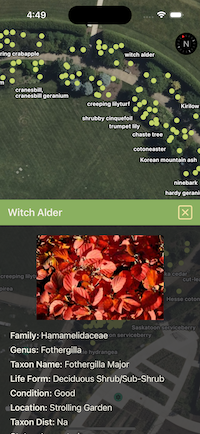
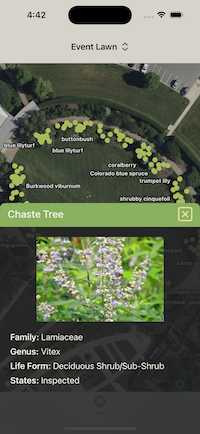
adds location selector to help with map performance

diff --git a/PSUArboretum/Reducers/MapReducer.swift b/PSUArboretum/Reducers/MapReducer.swift
@@ -17,26 +17,29 @@ struct MapReducer {
     let environment = Environment()
     
     struct State: Equatable {
-        var features: [ArboretumFeature] = []
-        
         var loading: Bool = false
+        
+        var allMapFeatures: [ArboretumFeature] = []
+        var displayedMapFeatures: [ArboretumFeature] = []
+        
+        @PresentationState var locationSelectorState: LocationSelectorReducer.State?
+        var featureLocations: [String] = []
+        var selectedLocation: String?
         
         @PresentationState var featureDetailState: FeatureDetailReducer.State?
         var selectedFeatureId: Int? = nil
         var selectedFeature: ArboretumFeature? = nil
-        
-        static func == (lhs: MapReducer.State, rhs: MapReducer.State) -> Bool {
-            return lhs.features == rhs.features &&
-            lhs.selectedFeature == rhs.selectedFeature
-        }
     }
     
     enum Action: Equatable {
         case didAppear
         case localDataBeganLoad
         case localDataLoaded([ArboretumFeature])
+        case locationSelected(String?)
         case featureSelected(Int?)
         case deselectFeature
+        case locationTapped
+        case locationSelector(PresentationAction<LocationSelectorReducer.Action>)
         case featureDetail(PresentationAction<FeatureDetailReducer.Action>)
     }
     
@@ -51,16 +54,44 @@ struct MapReducer {
     var body: some ReducerOf<Self> {
         Reduce { state, action in
             switch action {
+                case .locationSelected(let newLocation):
+                    state.selectedLocation = newLocation
+                    state.displayedMapFeatures = state.allMapFeatures.filter { $0.location == newLocation }
+                    return .none
+                case .locationTapped:
+                    if let loc = state.selectedLocation {
+                        state.locationSelectorState = LocationSelectorReducer.State(
+                            selectedLocation: loc,
+                            allLocations: state.featureLocations
+                        )
+                    }
+                    return .none
+                case .locationSelector(let lAction):
+                    switch lAction {
+                        case .presented(let action):
+                            switch action {
+                                case .locationSelected(let location):
+                                    if let location {
+                                        state.locationSelectorState = nil
+                                        return .send(.locationSelected(location))
+                                    }
+                                case .close:
+                                    state.locationSelectorState = nil
+                            }
+                            return .none
+                        default:
+                            return .none
+                    }
                 case .featureDetail(let pAction):
                     switch pAction {
                         case .presented(let action):
                             if action == FeatureDetailReducer.Action.close {
                                 state.featureDetailState = nil
                             }
+                            return .none
                         default:
                             return .none
                     }
-                    return .none
                 case .didAppear:
                     return environment.realm
                         .fetch(
@@ -73,15 +104,17 @@ struct MapReducer {
                     state.loading = true
                     return .none
                 case .localDataLoaded(let domainModels):
-                    state.features = domainModels
-                    return .none
+                    state.allMapFeatures = domainModels
+                    state.featureLocations = Set(state.allMapFeatures.map { $0.location }).filter { !$0.isBlank }
+                    // todo: load last location
+                    return .send(.locationSelected(state.allMapFeatures.first?.location))
                 case .deselectFeature:
                     state.selectedFeatureId = nil
                     state.selectedFeature = nil
                     return .none
                 case .featureSelected(let selectedFeatureId):
                     if let fId = selectedFeatureId,
-                       let selectedFeature = state.features.first(where: { f in f.id == fId }) {
+                       let selectedFeature = state.allMapFeatures.first(where: { f in f.id == fId }) {
                         state.selectedFeature = selectedFeature
                         state.featureDetailState = FeatureDetailReducer.State(selectedFeature: selectedFeature)
                     }
@@ -90,6 +123,9 @@ struct MapReducer {
         }
         .ifLet(\.$featureDetailState, action: /Action.featureDetail) {
             FeatureDetailReducer()
+        }
+        .ifLet(\.$locationSelectorState, action: /Action.locationSelector) {
+            LocationSelectorReducer()
         }
     }
 }

diff --git a/PSUArboretum/Views/MapView.swift b/PSUArboretum/Views/MapView.swift
@@ -24,17 +24,19 @@ struct MapView: View {
     
     var body: some View {
         WithViewStore(self.store,
-                      observe: { (features: $0.features, selectedFeatureId: $0.selectedFeatureId ) },
+                      observe: { ( mapFeatures: $0.displayedMapFeatures,
+                                   selectedLocation: $0.selectedLocation,
+                                   selectedFeatureId: $0.selectedFeatureId) },
                       removeDuplicates: ==
         ) { viewStore in
-            ZStack(alignment: .bottom) {
+            ZStack(alignment: .top) {
                 Map(bounds: region,
                     interactionModes: .all,
                     selection: viewStore.binding(
                         get: \.selectedFeatureId,
                         send: MapReducer.Action.featureSelected)
                 ) {
-                    ForEach(viewStore.features, id: \.id) { feature in
+                    ForEach(viewStore.mapFeatures) { feature in
                         Annotation(feature.commonName,
                                    coordinate: CLLocationCoordinate2D(latitude: feature.latitude,
                                                                       longitude: feature.longitude),
@@ -43,19 +45,45 @@ struct MapView: View {
                                 .foregroundColor(Colors.brightGreen)
                                 .frame(width: 10, height: 10)
                         }
-                                   .tag(feature.id)
                     }
                 }
                 .mapStyle(.hybrid(elevation: .realistic))
                 .frame(maxWidth: .infinity, maxHeight: .infinity)
-                .onAppear() {
-                    viewStore.send(.didAppear)
+                if let l = viewStore.selectedLocation {
+                    ZStack(alignment: .center) {
+                        Rectangle()
+                            .fill(Colors.offWhite)
+                            .frame(maxWidth: .infinity, maxHeight: .infinity)
+                            .ignoresSafeArea()
+                        HStack(alignment: .center) {
+                            Text("**\(l)**")
+                            Image(systemName: "chevron.up.chevron.down")
+                        }
+                        .onTapGesture(perform: {
+                            viewStore.send(.locationTapped)
+                        })
+                    }
+                    .frame(width: UIScreen.main.bounds.width, height: 65)
                 }
-                .sheet(
-                    store: self.store.scope(state: \.$featureDetailState, action: MapReducer.Action.featureDetail)
-                ) { store in
-                    FeatureDetailView(store: store)
-                }
+            }
+            .onAppear() {
+                viewStore.send(.didAppear)
+            }
+            .sheet(
+                store: self.store.scope(state: \.$featureDetailState, action: MapReducer.Action.featureDetail)
+            ) { store in
+                FeatureDetailView(store: store)
+                    .presentationDetents([.medium])
+                    .presentationBackground(Colors.blackish.opacity(0.85))
+                
+            }
+            .sheet(
+                store: self.store.scope(state: \.$locationSelectorState, action: MapReducer.Action.locationSelector)
+            ) { store in
+                LocationSelectorView(store: store)
+                    .presentationDetents([.medium])
+                    .presentationBackground(Colors.blackish.opacity(0.85))
+                
             }
         }
     }

diff --git a/PSUArboretum/Views/LocationSelectorView.swift b/PSUArboretum/Views/LocationSelectorView.swift
@@ -1,0 +1,40 @@
+//
+//  LocationSelectorView.swift
+//  PSUArboretum
+//
+//  Created by calvin on 12/28/23.
+//
+
+import Foundation
+import SwiftUI
+import ComposableArchitecture
+
+struct LocationSelectorView: View {
+    let store: StoreOf<LocationSelectorReducer>
+    
+    var body: some View {
+        WithViewStore(self.store, observe: { $0 }) { viewStore in
+            // these will be unique for sure
+            List(viewStore.allLocations.sorted(),
+                 id: \.self,
+                 selection: viewStore.binding(
+                    get: \.selectedLocation,
+                    send: LocationSelectorReducer.Action.locationSelected
+                 )
+            ) { location in
+                HStack {
+                    Text(location)
+                        .foregroundStyle(Colors.blackish)
+                    if viewStore.selectedLocation == location {
+                        Spacer()
+                        Circle()
+                            .fill(Colors.paleOrange)
+                            .frame(width: 20, height: 20)
+                    }
+                }
+            }
+            .listRowBackground(Color(UIColor.clear))
+            .frame(maxWidth: .infinity, maxHeight: .infinity)
+        }
+    }
+}

diff --git a/PSUArboretum/Reducers/LocationSelectorReducer.swift b/PSUArboretum/Reducers/LocationSelectorReducer.swift
@@ -1,5 +1,5 @@
 //
-//  FeatureDetailReducer.swift
+//  LocationSelectorReducer.swift
 //  PSUArboretum
 //
 //  Created by calvin on 12/28/23.
@@ -11,21 +11,24 @@ import SwiftUI
 import RealmSwift
 
 @Reducer
-struct FeatureDetailReducer {
+struct LocationSelectorReducer {
     struct State: Equatable {
-        var selectedFeature: ArboretumFeature? = nil
+        var selectedLocation: String?
+        var allLocations: [String]
     }
     
     enum Action: Equatable {
-        case featureSelected(ArboretumFeature)
+        case locationSelected(String?)
         case close
     }
     
     var body: some ReducerOf<Self> {
         Reduce { state, action in
             switch action {
-                case .featureSelected(let feature):
-                    state.selectedFeature = feature
+                case .locationSelected(let location):
+                    if let location {
+                        state.selectedLocation = location
+                    }
                     return .none
                 case .close:
                     return .none

diff --git a/PSUArboretum/Data/ArboretumFeature.swift b/PSUArboretum/Data/ArboretumFeature.swift
@@ -19,6 +19,7 @@ struct ArboretumFeature: Codable, Identifiable, Equatable {
         case family = "Family"
         case genus = "Genus"
         case objectId = "OBJECTID"
+        case location = "Location"
     }
     
     var id: Int { objectId }
@@ -32,6 +33,7 @@ struct ArboretumFeature: Codable, Identifiable, Equatable {
     var family: String
     var genus: String
     var objectId: Int
+    var location: String
     
     init(_ feature: RealmArboretumFeature) {
         objectId = feature.id
@@ -43,6 +45,7 @@ struct ArboretumFeature: Codable, Identifiable, Equatable {
         lifeForm = feature.lifeForm
         states = feature.states
         picture = feature.picture
+        location = feature.location
     }
 
     /// the `picture` field is HTML link tag wrapped around an image tag,

diff --git a/PSUArboretum/Views/AppView.swift b/PSUArboretum/Views/AppView.swift
@@ -13,11 +13,13 @@ struct AppView: View {
     let store: StoreOf<AppReducer>
     
     var body: some View {
-        WithViewStore(self.store, observe: { $0 }) { viewStore in
+        WithViewStore(self.store,
+                      observe: \.selectedTab,
+                      removeDuplicates: ==
+        ){ viewStore in
             TabView(
                 selection: viewStore.binding(
-                    get: \.selectedTab,
-                    send: AppReducer.Action.tabSelected
+                    send: { AppReducer.Action.tabSelected($0) }
                 )
             ) {
                 MapView(store: self.store.scope(state: \.mapState, action: AppReducer.Action.map))

diff --git a/PSUArboretum/Data/Realm/RealmArboretumFeature.swift b/PSUArboretum/Data/Realm/RealmArboretumFeature.swift
@@ -18,6 +18,7 @@ class RealmArboretumFeature: Object {
     @Persisted var lifeForm: String = ""
     @Persisted var states: String = ""
     @Persisted var picture: String = ""
+    @Persisted var location: String = ""
     
     convenience init(_ feature: ArboretumFeature) {
         self.init()
@@ -30,6 +31,7 @@ class RealmArboretumFeature: Object {
         lifeForm = feature.lifeForm
         states = feature.states
         picture = feature.picture
+        location = feature.location
     }
     
     /// the `picture` field is HTML link tag wrapped around an image tag,

diff --git a/PSUArboretum/Reducers/AppReducer.swift b/PSUArboretum/Reducers/AppReducer.swift
@@ -33,12 +33,14 @@ struct AppReducer {
         let scheduler: AnySchedulerOf<DispatchQueue>
         
         init(_ scheduler: AnySchedulerOf<DispatchQueue> = AnyScheduler.main) {
+            let config = Realm.Configuration(schemaVersion: 2)
+            Realm.Configuration.defaultConfiguration = config
             self.realm = try! Realm()
             self.scheduler = scheduler
         }
     }
     
-    enum Tab {
+    enum Tab: Equatable {
         case map
     }
     

diff --git a/PSUArboretum/Views/FeatureDetailView.swift b/PSUArboretum/Views/FeatureDetailView.swift
@@ -63,8 +63,6 @@ struct FeatureDetailView: View {
             .foregroundColor(Colors.offWhite)
             .transition(.move(edge: .bottom))
             .offset(y: viewStore.selectedFeature != nil ? 0 : height)
-            .presentationDetents([.medium])
-            .presentationBackground(Colors.blackish.opacity(0.85))
         }
     }
 }

diff --git a/PSUArboretum/Extensions.swift b/PSUArboretum/Extensions.swift
@@ -26,6 +26,12 @@ extension Color {
     }
 }
 
+extension String {
+  var isBlank: Bool {
+    return allSatisfy({ $0.isWhitespace })
+  }
+}
+
 extension Realm {
     func save<T: Object>(_ object: T) -> Effect<Signal> {
         let p = Future<Signal, Never>() { promise in

diff --git a/README.md b/README.md
@@ -3,6 +3,7 @@
 ![](img/map1.png)
 ![](img/map2.png)
 ![](img/detail.png)
+![](img/loc_selection.png)
 
 (ios playground with latest swiftui mapkit , [TheComposableArchitecture](https://github.com/pointfreeco/swift-composable-architecture), and [Realm](https://realm.io/realm-swift/))
 
